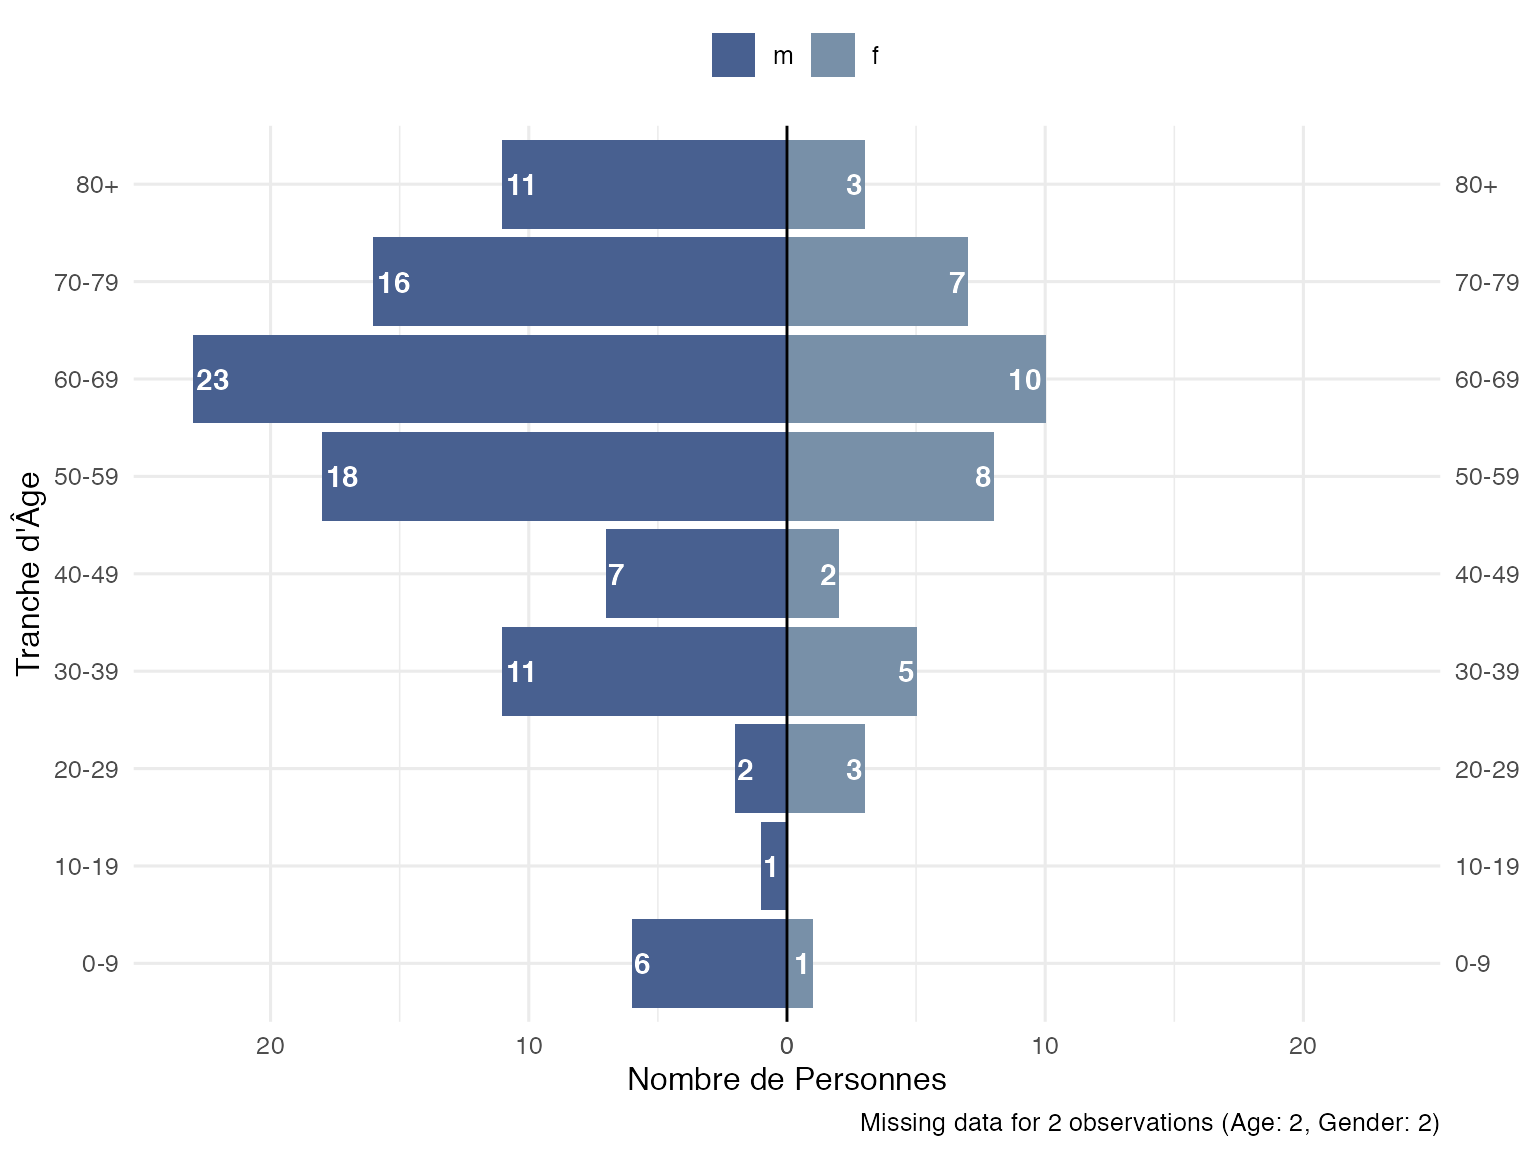
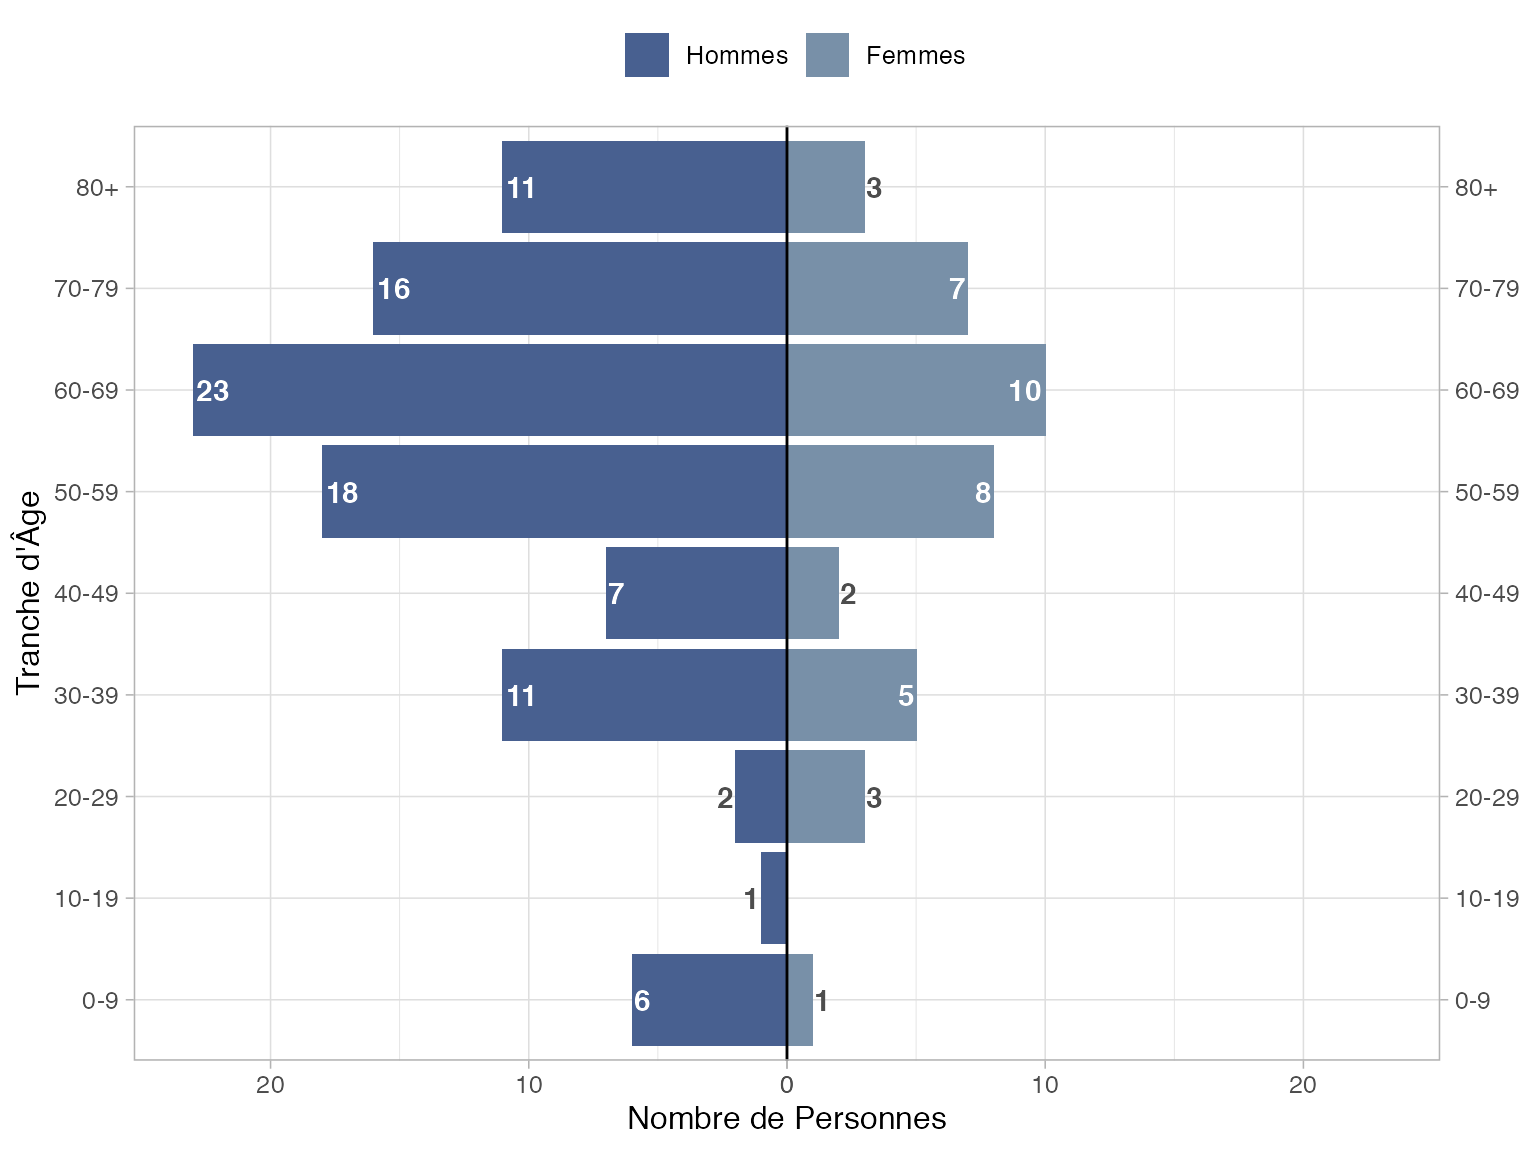
add pyramid facets

diff --git a/docs/articles/pyramids.html b/docs/articles/pyramids.html
@@ -102,7 +102,7 @@
 <span class="kw"><a href="https://rdrr.io/r/base/library.html">library</a></span><span class="op">(</span><span class="va"><a href="https://github.com/epicentre-msf/epivis">epivis</a></span><span class="op">)</span>
 
 <span class="co"># set a ggplot2 theme of your preference</span>
-<span class="fu"><a href="https://ggplot2.tidyverse.org/reference/theme_get.html">theme_set</a></span><span class="op">(</span><span class="fu"><a href="https://ggplot2.tidyverse.org/reference/ggtheme.html">theme_minimal</a></span><span class="op">(</span>base_size <span class="op">=</span> <span class="fl">12</span><span class="op">)</span><span class="op">)</span></code></pre></div>
+<span class="fu"><a href="https://ggplot2.tidyverse.org/reference/theme_get.html">theme_set</a></span><span class="op">(</span><span class="fu"><a href="https://ggplot2.tidyverse.org/reference/ggtheme.html">theme_light</a></span><span class="op">(</span>base_size <span class="op">=</span> <span class="fl">12</span><span class="op">)</span><span class="op">)</span></code></pre></div>
 <div class="sourceCode" id="cb2"><pre class="downlit sourceCode r">
 <code class="sourceCode R"><span class="va">df_flu</span> <span class="op">&lt;-</span> <span class="fu"><a href="https://tibble.tidyverse.org/reference/as_tibble.html">as_tibble</a></span><span class="op">(</span><span class="fu">outbreaks</span><span class="fu">::</span><span class="va"><a href="https://rdrr.io/pkg/outbreaks/man/fluH7N9_china_2013.html">fluH7N9_china_2013</a></span><span class="op">)</span>
 
@@ -148,11 +148,27 @@
 <p>Notice all age groups appear on the plot by default, whether there are any observations of this group or not. To remove groups with no observations use <code>drop_age_levels = TRUE</code>.</p>
 <p>If you have data that has already been binned by age and you want to use these bins, you can pass this column and set <code>make_age_groups = FALSE</code>.</p>
 </div>
+<div id="facetting" class="section level3">
+<h3 class="hasAnchor">
+<a href="#facetting" class="anchor"></a>Facetting</h3>
+<p>You can facet the graphic by supplying a <code>facet_col</code>:</p>
+<div class="sourceCode" id="cb5"><pre class="downlit sourceCode r">
+<code class="sourceCode R"><span class="va">df_flu</span> <span class="op">%&gt;%</span> 
+  <span class="fu"><a href="https://dplyr.tidyverse.org/reference/mutate.html">mutate</a></span><span class="op">(</span>outcome <span class="op">=</span> <span class="fu">forcats</span><span class="fu">::</span><span class="fu"><a href="https://forcats.tidyverse.org/reference/fct_explicit_na.html">fct_explicit_na</a></span><span class="op">(</span><span class="va">outcome</span>, <span class="st">"Unknown"</span><span class="op">)</span><span class="op">)</span> <span class="op">%&gt;%</span> 
+  <span class="fu"><a href="../reference/plot_pyramid.html">plot_pyramid</a></span><span class="op">(</span>
+  age_col <span class="op">=</span> <span class="va">age</span>,
+  gender_col <span class="op">=</span> <span class="va">gender</span>,
+  facet_col <span class="op">=</span> <span class="va">outcome</span>, <span class="co"># facet by patient outcome</span>
+  facet_ncol <span class="op">=</span> <span class="fl">2</span>,
+  gender_levels <span class="op">=</span> <span class="fu"><a href="https://rdrr.io/r/base/c.html">c</a></span><span class="op">(</span><span class="st">"m"</span>, <span class="st">"f"</span><span class="op">)</span>
+<span class="op">)</span></code></pre></div>
+<p><img src="pyramids_files/figure-html/unnamed-chunk-4-1.png" width="768"></p>
+</div>
 <div id="labelling" class="section level3">
 <h3 class="hasAnchor">
 <a href="#labelling" class="anchor"></a>Labelling</h3>
 <p>There are arguments to format axis and legend labels, as well as add data labels to the plot:</p>
-<div class="sourceCode" id="cb5"><pre class="downlit sourceCode r">
+<div class="sourceCode" id="cb6"><pre class="downlit sourceCode r">
 <code class="sourceCode R"><span class="fu"><a href="../reference/plot_pyramid.html">plot_pyramid</a></span><span class="op">(</span>
   df <span class="op">=</span> <span class="va">df_flu</span>,
   age_col <span class="op">=</span> <span class="va">age</span>,
@@ -164,26 +180,27 @@
   show_data_labs <span class="op">=</span> <span class="cn">TRUE</span>,
   add_missing_cap <span class="op">=</span> <span class="cn">FALSE</span> <span class="co"># remove caption detailing missing data</span>
 <span class="op">)</span></code></pre></div>
-<p><img src="pyramids_files/figure-html/unnamed-chunk-4-1.png" width="768"></p>
+<p><img src="pyramids_files/figure-html/unnamed-chunk-5-1.png" width="768"></p>
 <p>Notice smaller value labels are places outside the bar to improve legibility. You can change the threshold for moving a label with <code>lab_nudge_factor</code>. The default value is 5. Increasing the number increases the distance from the max value required to move a label outside the bar. So if you want to keep all labels inside the bars, increase to a higher value:</p>
-<div class="sourceCode" id="cb6"><pre class="downlit sourceCode r">
+<div class="sourceCode" id="cb7"><pre class="downlit sourceCode r">
 <code class="sourceCode R"><span class="fu"><a href="../reference/plot_pyramid.html">plot_pyramid</a></span><span class="op">(</span>
   df <span class="op">=</span> <span class="va">df_flu</span>,
   age_col <span class="op">=</span> <span class="va">age</span>,
   gender_col <span class="op">=</span> <span class="va">gender</span>,
   gender_levels <span class="op">=</span> <span class="fu"><a href="https://rdrr.io/r/base/c.html">c</a></span><span class="op">(</span><span class="st">"m"</span>, <span class="st">"f"</span><span class="op">)</span>,
+  gender_labs <span class="op">=</span> <span class="fu"><a href="https://rdrr.io/r/base/c.html">c</a></span><span class="op">(</span><span class="st">"Hommes"</span>, <span class="st">"Femmes"</span><span class="op">)</span>, <span class="co"># must respect the same order as the breaks</span>
   x_lab <span class="op">=</span> <span class="st">"Tranche d'Âge"</span>,
   y_lab <span class="op">=</span> <span class="st">"Nombre de Personnes"</span>,
   show_data_labs <span class="op">=</span> <span class="cn">TRUE</span>,
   lab_nudge_factor <span class="op">=</span> <span class="fl">50</span> <span class="co"># change from 5 to 50</span>
 <span class="op">)</span></code></pre></div>
-<p><img src="pyramids_files/figure-html/unnamed-chunk-5-1.png" width="768"></p>
+<p><img src="pyramids_files/figure-html/unnamed-chunk-6-1.png" width="768"></p>
 </div>
 <div id="theming" class="section level3">
 <h3 class="hasAnchor">
 <a href="#theming" class="anchor"></a>Theming</h3>
 <p>Although <code>plot_pyramid</code> has built-in theme defaults, because the function returns a ggplot object, you can easily reset any default by adding your own themes, palettes etc to the object:</p>
-<div class="sourceCode" id="cb7"><pre class="downlit sourceCode r">
+<div class="sourceCode" id="cb8"><pre class="downlit sourceCode r">
 <code class="sourceCode R"><span class="fu"><a href="../reference/plot_pyramid.html">plot_pyramid</a></span><span class="op">(</span>
   df <span class="op">=</span> <span class="va">df_flu</span>,
   age_col <span class="op">=</span> <span class="va">age</span>,
@@ -205,7 +222,7 @@
     axis.title.x <span class="op">=</span> <span class="fu"><a href="https://ggplot2.tidyverse.org/reference/element.html">element_text</a></span><span class="op">(</span>hjust <span class="op">=</span> <span class="fl">.5</span><span class="op">)</span>,
     axis.title.y <span class="op">=</span> <span class="fu"><a href="https://ggplot2.tidyverse.org/reference/element.html">element_text</a></span><span class="op">(</span>hjust <span class="op">=</span> <span class="fl">.5</span><span class="op">)</span>
   <span class="op">)</span></code></pre></div>
-<p><img src="pyramids_files/figure-html/unnamed-chunk-6-1.png" width="768"></p>
+<p><img src="pyramids_files/figure-html/unnamed-chunk-7-1.png" width="768"></p>
 </div>
 </div>
   </div>

diff --git a/docs/reference/plot_pyramid.html b/docs/reference/plot_pyramid.html
@@ -136,21 +136,27 @@
   <span class='va'>df</span>,
   <span class='va'>age_col</span>,
   <span class='va'>gender_col</span>,
+  facet_col <span class='op'>=</span> <span class='cn'>NULL</span>,
   make_age_groups <span class='op'>=</span> <span class='cn'>TRUE</span>,
   age_breaks <span class='op'>=</span> <span class='fu'><a href='https://rdrr.io/r/base/c.html'>c</a></span><span class='op'>(</span><span class='fu'><a href='https://rdrr.io/r/base/seq.html'>seq</a></span><span class='op'>(</span><span class='fl'>0</span>, <span class='fl'>80</span>, <span class='fl'>10</span><span class='op'>)</span>, <span class='cn'>Inf</span><span class='op'>)</span>,
   age_labels <span class='op'>=</span> <span class='fu'><a href='label_breaks.html'>label_breaks</a></span><span class='op'>(</span><span class='va'>age_breaks</span><span class='op'>)</span>,
   drop_age_levels <span class='op'>=</span> <span class='cn'>FALSE</span>,
   <span class='va'>gender_levels</span>,
   gender_labs <span class='op'>=</span> <span class='cn'>NULL</span>,
-  x_lab <span class='op'>=</span> <span class='st'>"Age Group"</span>,
-  y_lab <span class='op'>=</span> <span class='st'>"n"</span>,
+  x_lab <span class='op'>=</span> <span class='fu'>waiver</span><span class='op'>(</span><span class='op'>)</span>,
+  y_lab <span class='op'>=</span> <span class='fu'>waiver</span><span class='op'>(</span><span class='op'>)</span>,
   colours <span class='op'>=</span> <span class='fu'><a href='https://rdrr.io/r/base/c.html'>c</a></span><span class='op'>(</span><span class='st'>"#486090FF"</span>, <span class='st'>"#7890A8FF"</span><span class='op'>)</span>,
   show_data_labs <span class='op'>=</span> <span class='cn'>FALSE</span>,
   lab_size <span class='op'>=</span> <span class='fl'>4</span>,
   lab_in_col <span class='op'>=</span> <span class='st'>"white"</span>,
   lab_out_col <span class='op'>=</span> <span class='st'>"grey30"</span>,
   lab_nudge_factor <span class='op'>=</span> <span class='fl'>5</span>,
-  add_missing_cap <span class='op'>=</span> <span class='cn'>TRUE</span>
+  add_missing_cap <span class='op'>=</span> <span class='cn'>TRUE</span>,
+  facet_nrow <span class='op'>=</span> <span class='cn'>NULL</span>,
+  facet_ncol <span class='op'>=</span> <span class='cn'>NULL</span>,
+  facet_scales <span class='op'>=</span> <span class='st'>"fixed"</span>,
+  facet_labs <span class='op'>=</span> <span class='fu'>label_wrap_gen</span><span class='op'>(</span>width <span class='op'>=</span> <span class='fl'>25</span><span class='op'>)</span>,
+  facet_lab_pos <span class='op'>=</span> <span class='st'>"top"</span>
 <span class='op'>)</span></pre>
 
     <h2 class="hasAnchor" id="arguments"><a class="anchor" href="#arguments"></a>Arguments</h2>
@@ -161,7 +167,7 @@
       <td><p>unaggregated dataframe with a minumum of age and gender variables</p></td>
     </tr>
     <tr>
-      <th>add_missing_cap</th>
+      <th>facet_lab_pos</th>
       <td></td>
     </tr>
     </table>

diff --git a/docs/index.html b/docs/index.html
@@ -107,7 +107,7 @@
 <input type="checkbox" disabled checked>
 Epicurves</li>
 <li>
-<input type="checkbox" disabled>
+<input type="checkbox" disabled checked>
 Age/Sex pyramids</li>
 <li>
 <input type="checkbox" disabled>
